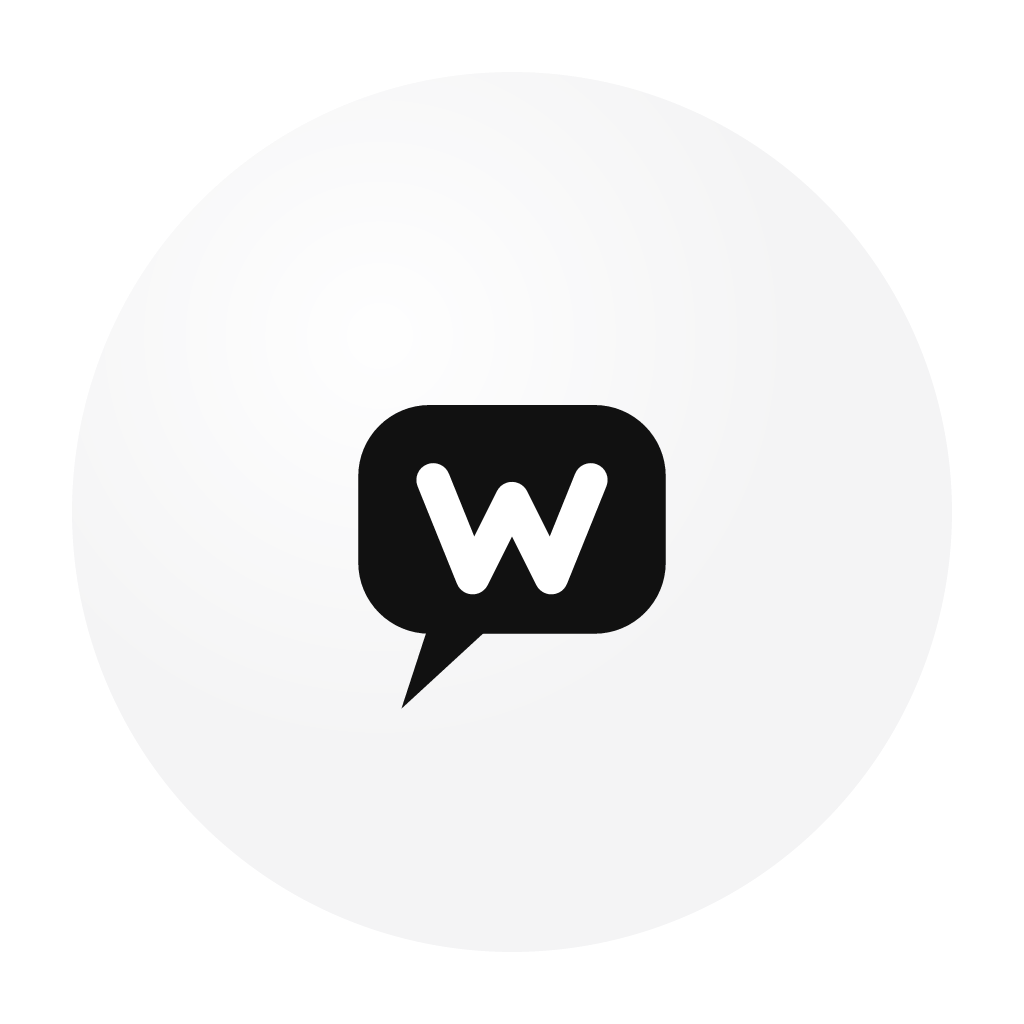
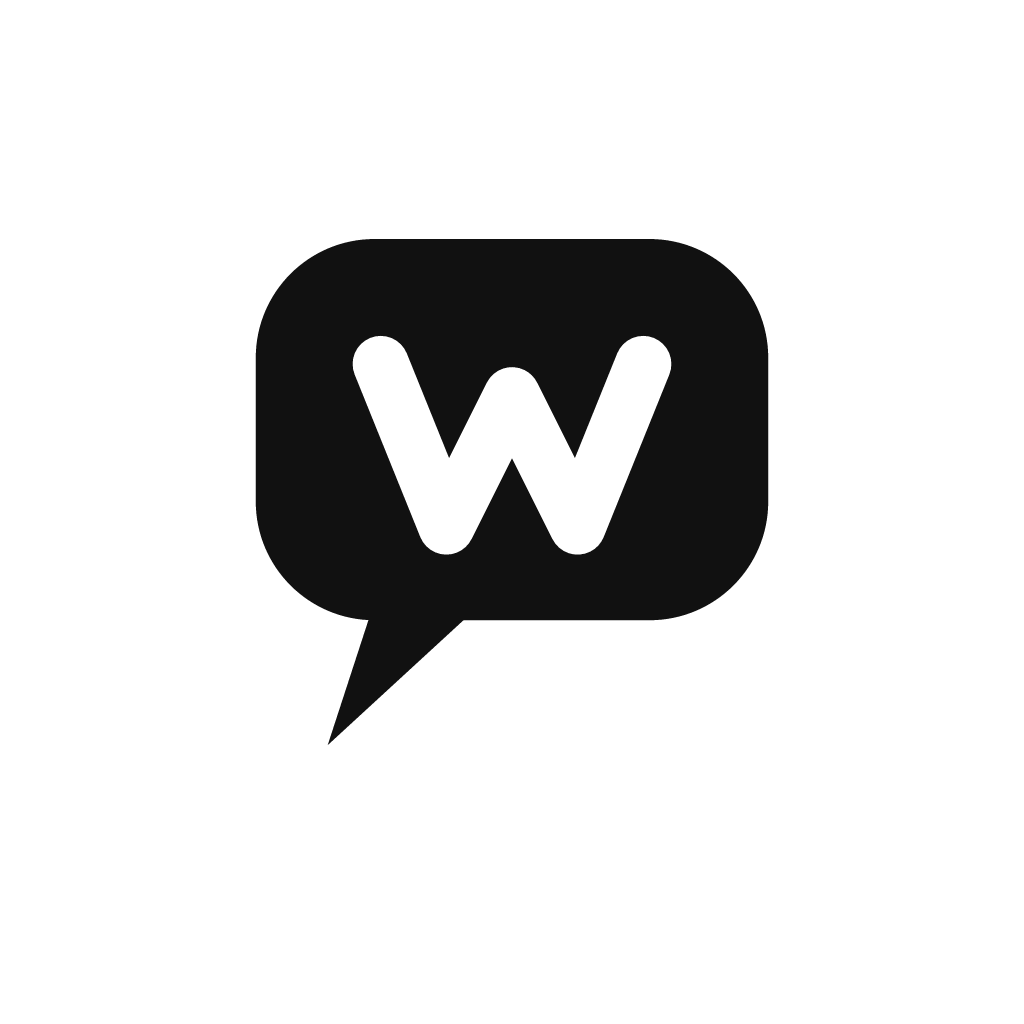
branding: mascot without circle medallion (1.0.2b7-wenwen.3)
- wenwen-mascot.svg: remove gray circle, pure dialogue bubble icon
- Re-render wenwen-mascot-empty.png / wenwen-mascot-tasks.png
- CHANGELOG-WENWEN.md: add 1.0.2b7-wenwen.3 entry

Changed region(s): [[0.25, 0.2188, 0.75, 0.7188]]

diff --git a/CHANGELOG-WENWEN.md b/CHANGELOG-WENWEN.md
@@ -11,6 +11,17 @@
 
 ---
 
+## [1.0.2b7-wenwen.3] - 2026-10-13
+
+去掉空状态 mascot 后面的灰色圆圈，只保留对话气泡图标。
+
+### 变更
+
+- **mascot 去圆圈**：`branding/assets/wenwen-mascot.svg` 去掉灰色圆底，
+  纯对话气泡图标（透明背景）；重新渲染
+  `wenwen-mascot-empty.png` / `wenwen-mascot-tasks.png`，
+  影响空状态页、输入框思考气泡、连接中指示器。
+
 ## [1.0.2b7-wenwen.2] - 2026-10-13
 
 Logo 更换：由"几何 W + 灵感火花点"改为"黑色对话气泡 + 白色 W"。
